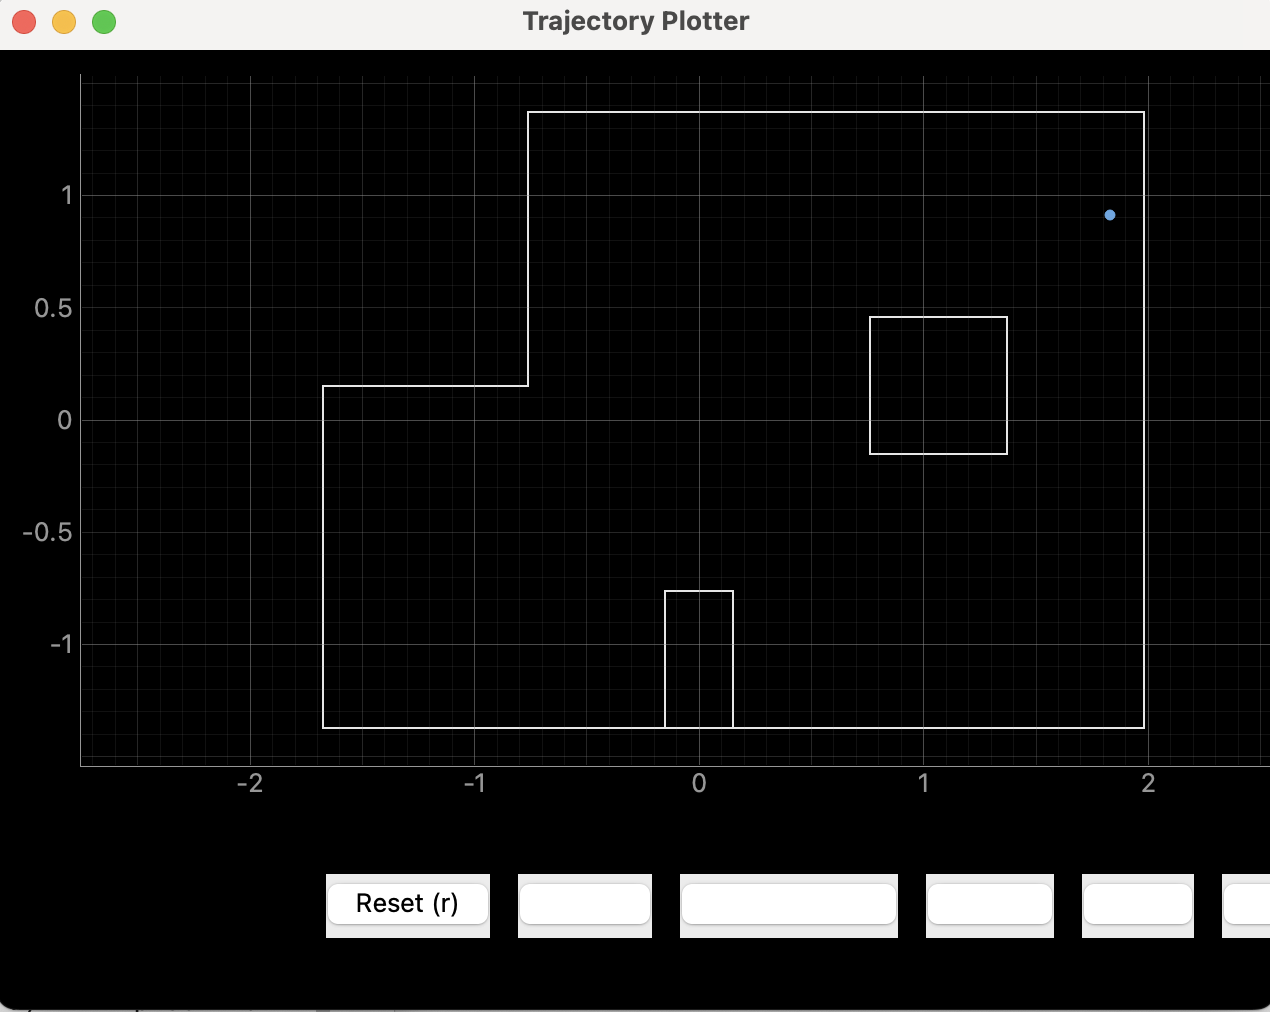
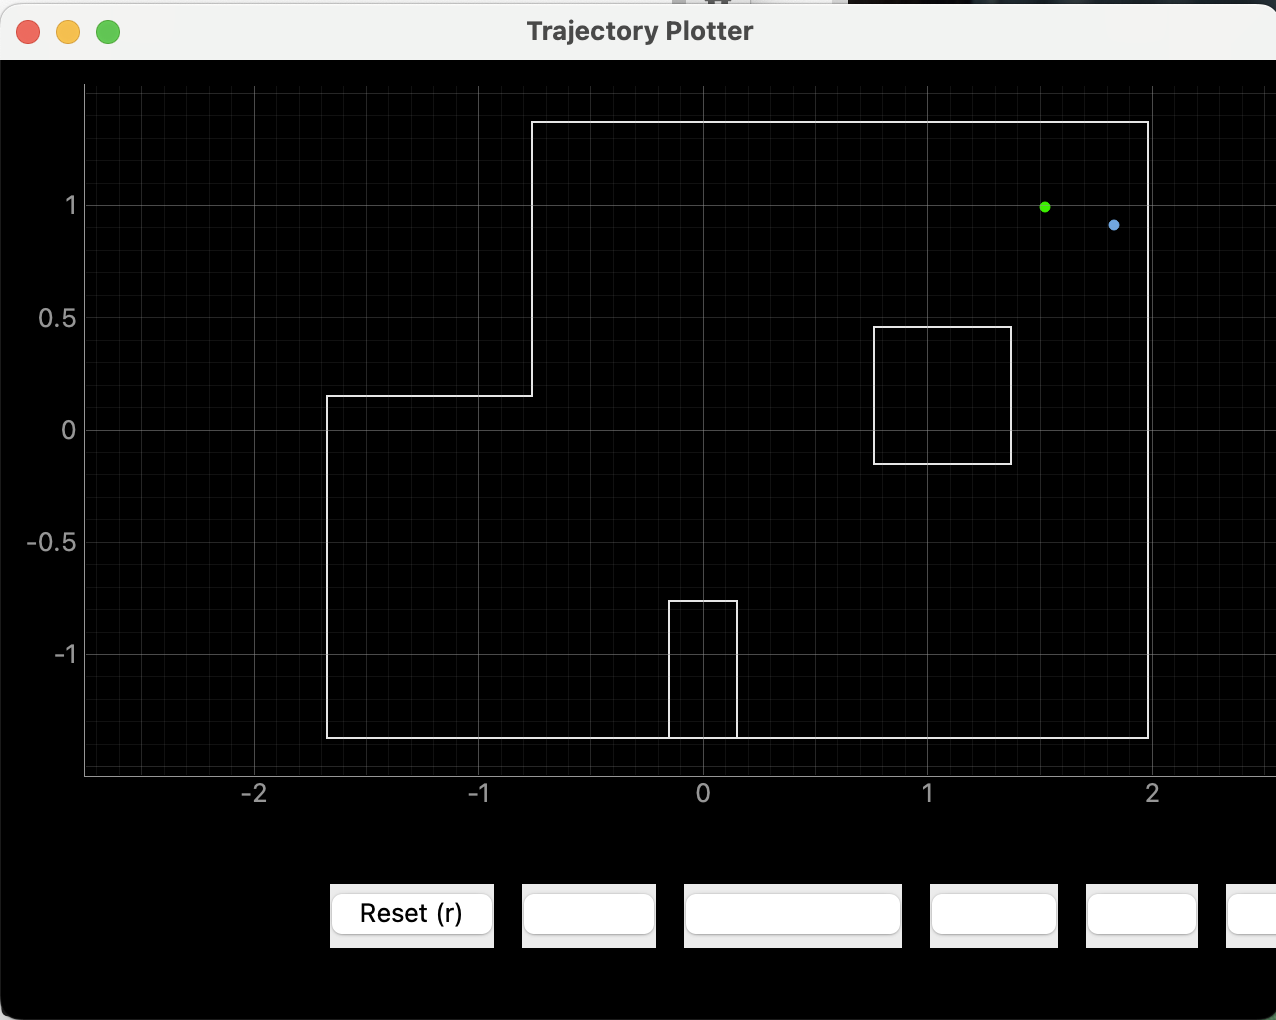
lab11 version1

diff --git a/lab11.html b/lab11.html
@@ -433,48 +433,58 @@
             <section id="task">
                 <h2>LAB TASKS</h2>
                 <h3>Bayes Filter (Sim)</h3>
+                <p>Firstly, we run the given code to display the simulation results, where there are plots for odom, ground truth and belief.</p>
                 <div class="img-container">
                     <img class="img-intext" style="max-width: 500px;" src="pics/lab11/sim.png" alt="">
                 </div>
 
                 <h3>Bayes Filter (Real)</h3>
+                <p>After the simulation, we are requited to run the real robot. Therefore, the <span class="code-intext">LOCALIZATION</span> case is created on the Artemis side as shown on the following. Previously, there was an index error appeared when I run the Python code, and later it was found out that 18 sets of data should be obtained in that function, which indicated that the 0 degree's data was not recorded. Hence, I added the record of that data in the <span class="code-intext">LOCALIZATION</span> case, ensuring I got the first data.</p>
                 <script src="https://gist.github.com/mavisfu/6d4de9d29084be8f25334590bd6882f3.js"></script>
 
+                <p style="margin-top: 40px;">In the main loop of the program, the flag <span class="code-intext">local_on</span> will be checked and the data will be recorded after the increment of the certain angle that is set by the command <span class="code-intext">ble.send_command(CMD.LOCALIZATION, "165|20")</span>.</p>
                 <script src="https://gist.github.com/mavisfu/5542d003a50387f681244e71d056f58a.js"></script>
 
+                <p style="margin-top: 40px;">Moreover, in the <span class="code-intext">perform_observation_loop</span>, the code is organized as below, where we send the command and wait for the data transmitted, and then, after 30 secs, we will process the data, since the operation require time to do the rotation.</p>
                 <script src="https://gist.github.com/mavisfu/a832cb21e8cb6b88f5489ff32ac887d7.js"></script>
 
+                <p style="margin-top: 40px;">To receive the record, every 20 degree, the notification handler is implemented, called <span class="code-intext">local_data(uuid, bytearr)</span>. With this method, the two parameter can be seperated and stored in different arrays.</p>
                 <script src="https://gist.github.com/mavisfu/5762fc46f3c923d109824e0bed2089bc.js"></script>
 
-                <p>index error -  cause no data for 0 degree</p>
-
-            
-                <p>Plot the theoretical dot</p>
+                <p style="margin-top: 40px;">Furthermore, we should plot the theoretical dot together with the real position to analyze the performance of the Bayes Filter, where the dots are represented in meters.</p>
                 <script src="https://gist.github.com/mavisfu/3e44fcba206c3f7b88feb9d0400eeca9.js"></script>
 
+                <p style="margin-top: 40px;">After all the testing, we can obtain the following results, where the green dots stand for theoretical result and the blue dots indicate actual position coordinates.</p>
+                <p><b><i>Position (-3, -2):</i></b></p>
                 <div class="img-container">
                     <img class="img-intext" style="max-width: 500px;" src="pics/lab11/-3_-2/figure1.png" alt="">
                 </div>
                 <div class="img-container">
                     <img class="img-intext" style="max-width: 500px;" src="pics/lab11/-3_-2/data1.png" alt="">
                 </div>
+
+                <p style="margin-top: 40px;"><b><i>Position (0, 3):</i></b></p>
                 <div class="img-container">
                     <img class="img-intext" style="max-width: 500px;" src="pics/lab11/0_3/figure2.png" alt="">
                 </div>
                 <div class="img-container">
                     <img class="img-intext" style="max-width: 500px;" src="pics/lab11/0_3/data2.png" alt="">
                 </div>
+
+                <p style="margin-top: 40px;"><b><i>Position (5, -3):</i></b></p>
                 <div class="img-container">
                     <img class="img-intext" style="max-width: 500px;" src="pics/lab11/5_-3/figure3.png" alt="">
                 </div>
                 <div class="img-container">
-                    <img class="img-intext" style="max-width: 500px;" src="pics/lab11/5_-3/data3.JPG" alt="">
+                    <img class="img-intext" style="max-width: 500px;" src="pics/lab11/5_-3/data3.jpg" alt="">
                 </div>
+
+                <p style="margin-top: 40px;"><b><i>Position (5, 3):</i></b></p>
                 <div class="img-container">
                     <img class="img-intext" style="max-width: 500px;" src="pics/lab11/5_3/figure4.png" alt="">
                 </div>
                 <div class="img-container">
-                    <img class="img-intext" style="max-width: 500px;" src="pics/lab11/5_3/data4.jpg" alt="">
+                    <img class="img-intext" style="max-width: 500px;" src="pics/lab11/5_3/data4.png" alt="">
                 </div>
             </section>
 
